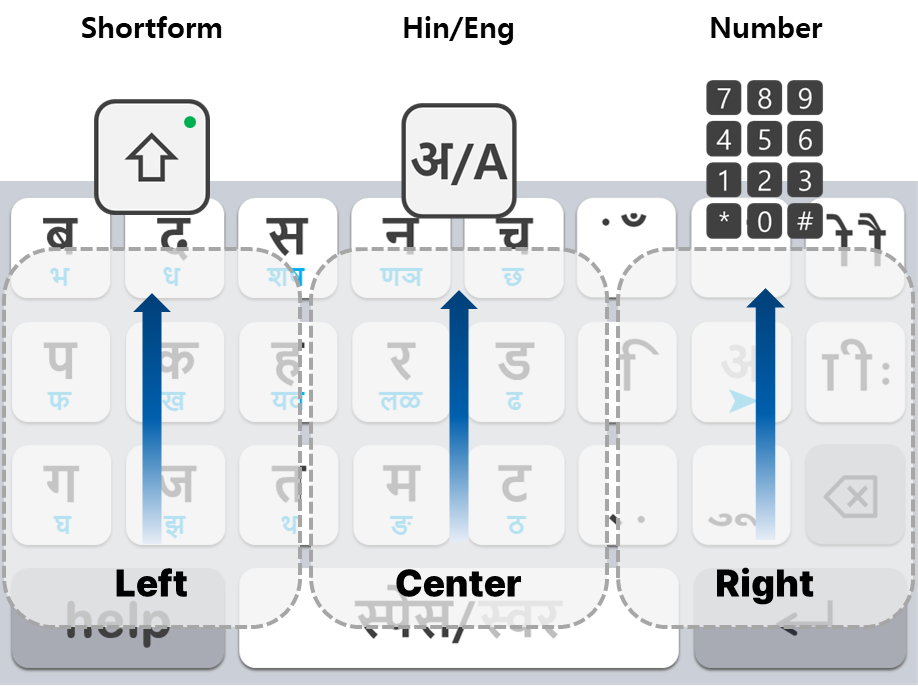
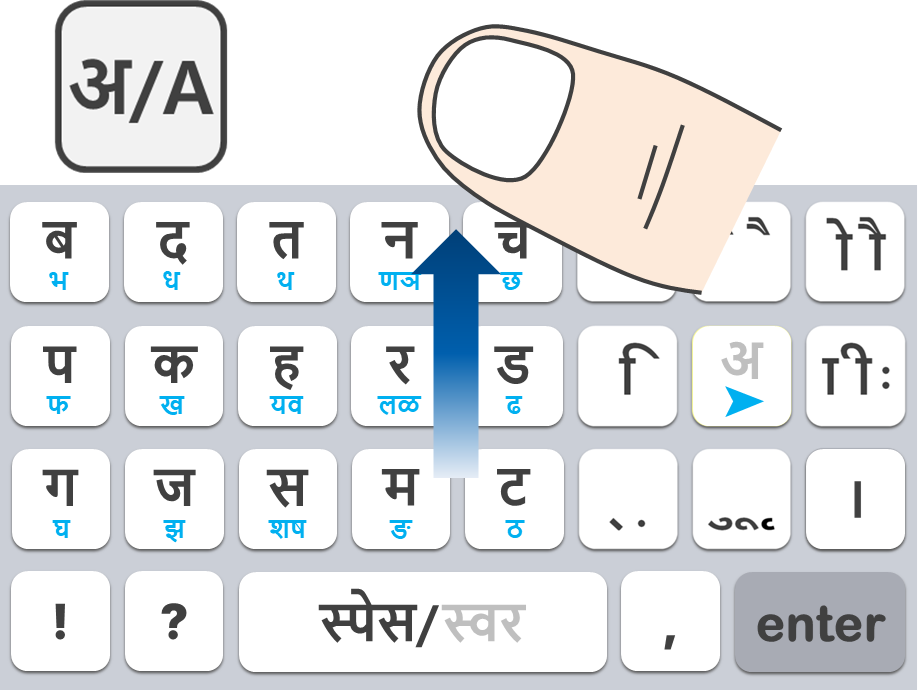
Add files via upload

diff --git a/index.html b/index.html
@@ -76,7 +76,7 @@
             <a href="#how-to" class="hover:text-blue-600 transition">उपयोग विधि</a>
             <a href="#pc-version" class="hover:text-blue-600 transition">पीसी संस्करण</a>
             <a href="#demo" class="bg-blue-600 text-white px-5 py-2.5 rounded-lg hover:bg-blue-700 transition flex items-center justify-center leading-none">
-                अभी आज़माएं
+                अभी आज़माएँ
             </a>
         </div>
     </div>
@@ -88,8 +88,8 @@
         <img src="images/hero.png" alt="Hatabang Hero" class="w-full object-cover">
     </picture>
     <div class="absolute leading-snug hero-copy">
-        <p class="hero-line-lead">Papa ki Hinglish</p>
-        <p class="hero-line-main">हमारी पाकाहारा!</p>
+        <p class="hero-line-lead">Ab Hinglish nahi,</p>
+        <p class="hero-line-main">अब पाकाहारा!</p>
         <p class="hero-subtitle">क्रांतिकारी देवनागरी कीबोर्ड</p>
     </div>
 </section>
@@ -119,7 +119,7 @@
                 <ul class="space-y-4 text-gray-600">
                     <li class="flex items-start">
                         <span class="text-blue-500 mr-3 mt-1">✓</span>
-                        <span>समान आकार वाले व्यंजनों को एक ही बटन पर व्यवस्थित किया गया है, ताकि उन्हें आसानी से खोजा जा सके।</span>
+                        <span>समान ध्वनि वाले व्यंजनों को एक ही बटन पर व्यवस्थित किया गया है, ताकि उन्हें आसानी से खोजा जा सके।</span>
 
 					</li>
                 </ul>
@@ -150,6 +150,23 @@
     </section>
 
 
+
+    <section id="mode-switch" class="py-20 max-w-6xl mx-auto px-6 border-t border-gray-100">
+        <div class="flex flex-col md:flex-row items-center gap-12">
+            <div class="md:w-1/2">
+                <img src="images/help.png" alt="मोड स्वाइप विधि" class="w-full rounded-xl border border-gray-100 shadow-sm">
+            </div>
+            <div class="md:w-1/2">
+                <h3 class="text-2xl font-bold mb-6 text-gray-800">बस एक स्वाइप — मोड तुरंत बदलें!</h3>
+                <ul class="space-y-4 text-gray-600">
+                    <li class="flex items-start">
+                        <span class="text-blue-500 mr-3 mt-1">✓</span>
+                        <span>कप्रत्येक क्षेत्र (बायां, मध्य, दायां) को ऊपर स्वाइप करके Saved Phrases, Hin/Eng, Number/Symbol मोड में आसानी से बदलें।</span>
+                    </li>
+                </ul>
+            </div>
+        </div>
+    </section>
 
     <section id="pc-version" class="py-20 bg-gray-900 text-white">
         <div class="max-w-6xl mx-auto px-6 text-center">
